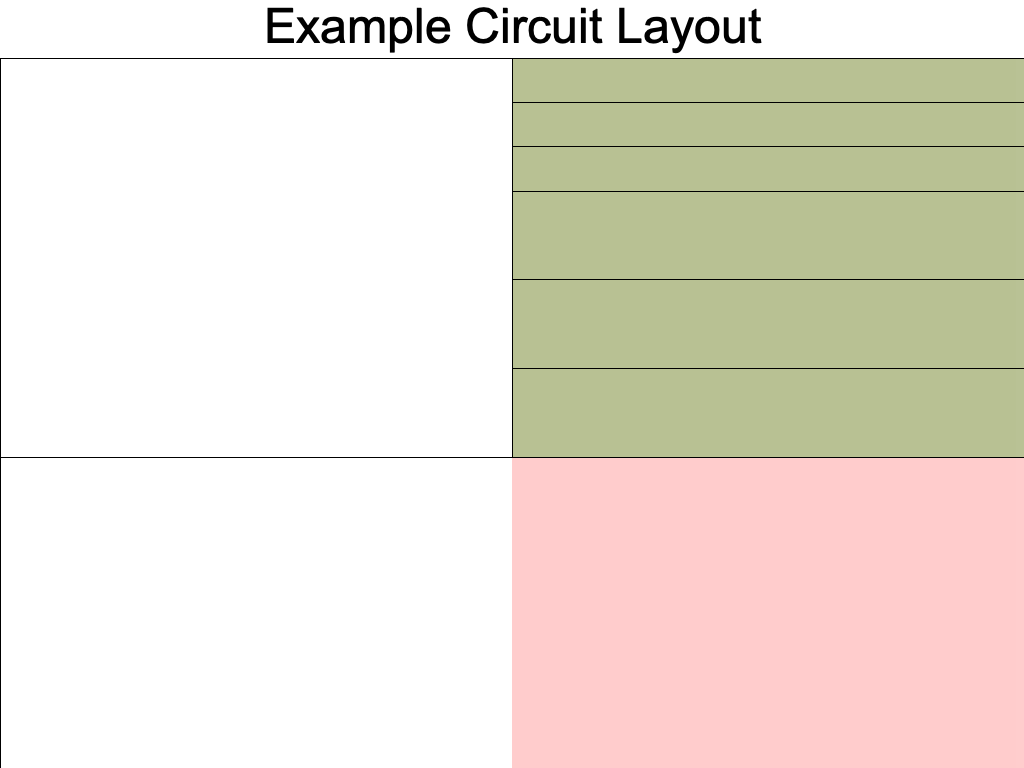
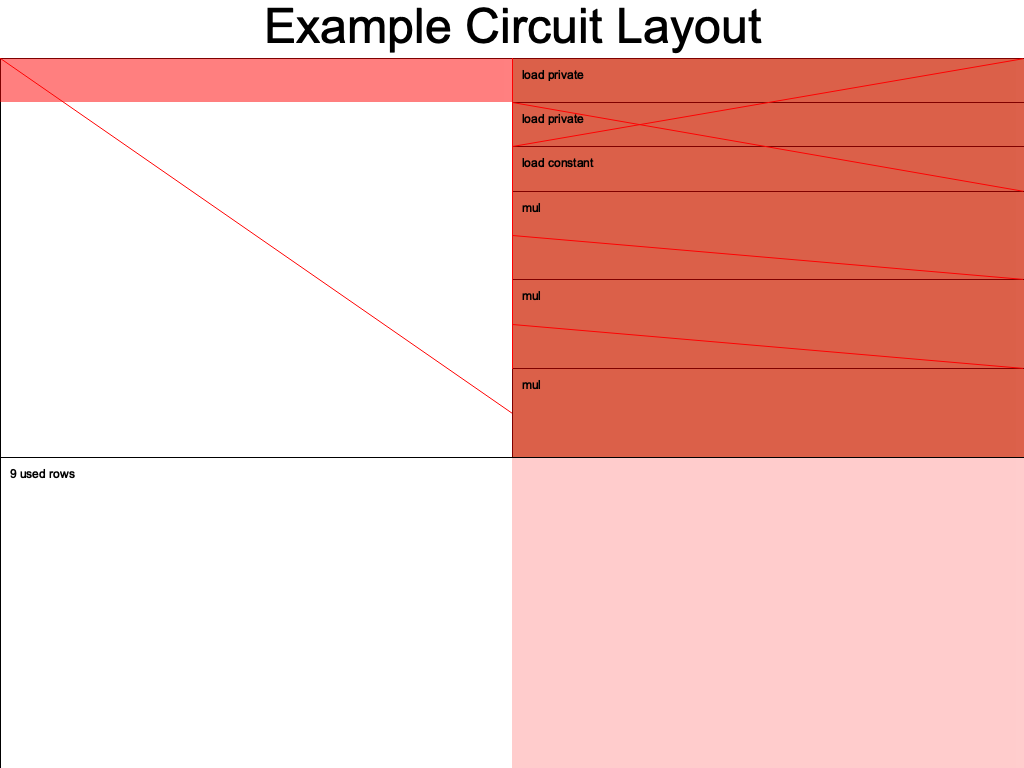
add fibonacci example

Changed region(s): [[0.0, 0.0625, 1.0, 0.5938], [0.0, 0.5938, 0.0625, 0.625]]

diff --git a/src/lib.rs b/src/lib.rs
@@ -1,4 +1,270 @@
-#[allow(unused)]
-fn add(a: i32, b: i32) {
-    println!("{} + {} = {}", a, b, a + b);
+use group::ff::Field;
+use halo2_proofs::{circuit::*, plonk::*, poly::Rotation};
+use std::marker::PhantomData;
+
+#[derive(Debug, Clone)]
+struct FibonacciConfig {
+    pub col_a: Column<Advice>,
+    pub col_b: Column<Advice>,
+    pub col_c: Column<Advice>,
+    pub selector: Selector,
+    pub instance: Column<Instance>,
+}
+
+#[derive(Debug, Clone)]
+struct FibonacciChip<F: Field> {
+    config: FibonacciConfig,
+    _marker: PhantomData<F>,
+}
+
+impl<F: Field> FibonacciChip<F> {
+    pub fn construct(config: FibonacciConfig) -> Self {
+        Self {
+            config,
+            _marker: PhantomData,
+        }
+    }
+
+    pub fn configure(meta: &mut ConstraintSystem<F>) -> FibonacciConfig {
+        let col_a = meta.advice_column();
+        let col_b = meta.advice_column();
+        let col_c = meta.advice_column();
+        let selector = meta.selector();
+        let instance = meta.instance_column();
+
+        meta.enable_equality(col_a);
+        meta.enable_equality(col_b);
+        meta.enable_equality(col_c);
+        meta.enable_equality(instance);
+
+        meta.create_gate("add", |meta| {
+            //
+            // col_a | col_b | col_c | selector
+            //   a      b        c       s
+            //
+            let s = meta.query_selector(selector);
+            let a = meta.query_advice(col_a, Rotation::cur());
+            let b = meta.query_advice(col_b, Rotation::cur());
+            let c = meta.query_advice(col_c, Rotation::cur());
+            vec![s * (a + b - c)]
+        });
+
+        FibonacciConfig {
+            col_a,
+            col_b,
+            col_c,
+            selector,
+            instance,
+        }
+    }
+
+    #[allow(clippy::type_complexity)]
+    pub fn assign_first_row(
+        &self,
+        mut layouter: impl Layouter<F>,
+    ) -> Result<(AssignedCell<F, F>, AssignedCell<F, F>, AssignedCell<F, F>), Error> {
+        layouter.assign_region(
+            || "first row",
+            |mut region| {
+                self.config.selector.enable(&mut region, 0)?;
+
+                let a_cell = region.assign_advice_from_instance(
+                    || "f(0)",
+                    self.config.instance,
+                    0,
+                    self.config.col_a,
+                    0,
+                )?;
+
+                let b_cell = region.assign_advice_from_instance(
+                    || "f(1)",
+                    self.config.instance,
+                    1,
+                    self.config.col_b,
+                    0,
+                )?;
+
+                let c_cell = region.assign_advice(
+                    || "a + b",
+                    self.config.col_c,
+                    0,
+                    || a_cell.value().copied() + b_cell.value(),
+                )?;
+
+                Ok((a_cell, b_cell, c_cell))
+            },
+        )
+    }
+    pub fn assign_row(
+        &self,
+        mut layouter: impl Layouter<F>,
+        prev_b: &AssignedCell<F, F>,
+        prev_c: &AssignedCell<F, F>,
+    ) -> Result<AssignedCell<F, F>, Error> {
+        layouter.assign_region(
+            || "next row",
+            |mut region| {
+                self.config.selector.enable(&mut region, 0)?;
+
+                // Copy the value from b & c in previous row to a & b in current row
+                prev_b.copy_advice(|| "a", &mut region, self.config.col_a, 0)?;
+                prev_c.copy_advice(|| "b", &mut region, self.config.col_b, 0)?;
+
+                let c_cell = region.assign_advice(
+                    || "c",
+                    self.config.col_c,
+                    0,
+                    || prev_b.value().copied() + prev_c.value(),
+                )?;
+
+                Ok(c_cell)
+            },
+        )
+    }
+    pub fn expose_public(
+        &self,
+        mut layouter: impl Layouter<F>,
+        cell: &AssignedCell<F, F>,
+        row: usize,
+    ) -> Result<(), Error> {
+        layouter.constrain_instance(cell.cell(), self.config.instance, row)
+    }
+}
+
+#[derive(Default)]
+struct FIBONACircuit<F>(PhantomData<F>);
+
+impl<F: Field> Circuit<F> for FIBONACircuit<F> {
+    type Config = FibonacciConfig;
+    type FloorPlanner = SimpleFloorPlanner;
+
+    fn without_witnesses(&self) -> Self {
+        Self::default()
+    }
+
+    fn configure(meta: &mut ConstraintSystem<F>) -> Self::Config {
+        FibonacciChip::configure(meta)
+    }
+
+    fn synthesize(
+        &self,
+        config: Self::Config,
+        mut layouter: impl Layouter<F>,
+    ) -> Result<(), Error> {
+        let chip = FibonacciChip::construct(config);
+
+        let (_, mut prev_b, mut prev_c) =
+            chip.assign_first_row(layouter.namespace(|| "first row"))?;
+
+        for _i in 3..10 {
+            let c_cell = chip.assign_row(layouter.namespace(|| "next row"), &prev_b, &prev_c)?;
+            prev_b = prev_c;
+            prev_c = c_cell;
+        }
+
+        chip.expose_public(layouter.namespace(|| "out"), &prev_c, 2)?;
+
+        Ok(())
+    }
+}
+
+pub mod show_main {
+    use super::FIBONACircuit;
+    use halo2_proofs::{dev::MockProver, pasta::Fp};
+    use std::marker::PhantomData;
+
+    #[cfg(feature = "dev-graph")]
+    pub fn plot_fibonacci1() {
+        use plotters::prelude::*;
+
+        let root = BitMapBackend::new("fib-1-layout.png", (1024, 3096)).into_drawing_area();
+        root.fill(&WHITE).unwrap();
+        let root = root.titled("Fib 1 Layout", ("sans-serif", 60)).unwrap();
+
+        let circuit = FIBONACircuit::<Fp>(PhantomData);
+        halo2_proofs::dev::CircuitLayout::default()
+            //optionally render only a section of the circuit.
+            .view_width(0..2)
+            .view_height(0..16)
+            //hide labels, which can be useful with smaller areas.
+            .show_labels(true)
+            .mark_equality_cells(true)
+            .show_equality_constraints(true)
+            // Render the circuit onto your area!
+            // The first argument is the size parameter for the circuit.
+            .render(5, &circuit, &root)
+            .unwrap();
+    }
+
+    pub fn fibonacci_example1() {
+        println!("will run fibonacci example ......");
+
+        let k = 4;
+
+        let a = Fp::from(1); // F[0]
+        let b = Fp::from(1); // F[1]
+        let out = Fp::from(55); // F[9]
+
+        let circuit = FIBONACircuit(PhantomData);
+
+        let mut public_input = vec![a, b, out];
+
+        let prover = MockProver::run(k, &circuit, vec![public_input.clone()]).unwrap();
+        prover.assert_satisfied();
+
+        public_input[2] += Fp::one();
+        let _prover = MockProver::run(k, &circuit, vec![public_input]).unwrap();
+        // uncomment the following line and the assert will fail
+        assert!(_prover.verify().is_err());
+
+        println!("verify success that's all right");
+    }
+}
+
+#[cfg(test)]
+mod tests {
+    use std::marker::PhantomData;
+
+    use super::FIBONACircuit;
+    use halo2_proofs::{dev::MockProver, pasta::Fp};
+
+    #[test]
+    fn fibonacci_example1() {
+        let k = 4;
+
+        let a = Fp::from(1); // F[0]
+        let b = Fp::from(1); // F[1]
+        let out = Fp::from(55); // F[9]
+
+        let circuit = FIBONACircuit(PhantomData);
+
+        let mut public_input = vec![a, b, out];
+
+        let prover = MockProver::run(k, &circuit, vec![public_input.clone()]).unwrap();
+        prover.assert_satisfied();
+
+        public_input[2] += Fp::one();
+        let _prover = MockProver::run(k, &circuit, vec![public_input]).unwrap();
+        // uncomment the following line and the assert will fail
+        assert!(_prover.verify().is_err())
+    }
+
+    #[cfg(feature = "dev-graph")]
+    #[test]
+    fn plot_fibonacci1() {
+        use plotters::prelude::*;
+
+        let root = BitMapBackend::new("fib-1-layout.png", (1024, 3096)).into_drawing_area();
+        root.fill(&WHITE).unwrap();
+        let root = root.titled("Fib 1 Layout", ("sans-serif", 60)).unwrap();
+
+        let circuit = FIBONACircuit::<Fp>(PhantomData);
+        halo2_proofs::dev::CircuitLayout::default()
+            .view_width(0..2)
+            .view_height(0..16)
+            //hide labels, which can be useful with smaller areas.
+            .show_labels(false)
+            .render(4, &circuit, &root)
+            .unwrap();
+    }
 }

diff --git a/src/main.rs b/src/main.rs
@@ -293,6 +293,7 @@ impl<F: Field> Circuit<F> for MyCiruit<F> {
 }
 
 use halo2_proofs::{dev::MockProver, pasta::Fp};
+use simple_example::show_main;
 
 fn main() {
     ////  The number of rows in our circuit cannot exceed 2^k. Since our example
@@ -321,8 +322,11 @@ fn main() {
     let prover = MockProver::run(k, &circuit, vec![public_inputs]).unwrap();
     assert!(prover.verify().is_err());
 
+    // fibonacci example
+    show_main::fibonacci_example1();
     #[cfg(feature = "dev-graph")]
     {
+        show_main::plot_fibonacci1();
         use plotters::prelude::*;
         let drawing_area = BitMapBackend::new("layout.png", (1024, 768)).into_drawing_area();
         drawing_area.fill(&WHITE).unwrap();
@@ -335,7 +339,9 @@ fn main() {
             .view_width(0..2)
             .view_height(0..16)
             //hide labels, which can be useful with smaller areas.
-            .show_labels(false)
+            .show_labels(true)
+            .mark_equality_cells(true)
+            .show_equality_constraints(true)
             // Render the circuit onto your area!
             // The first argument is the size parameter for the circuit.
             .render(k, &circuit, &drawing_area)
